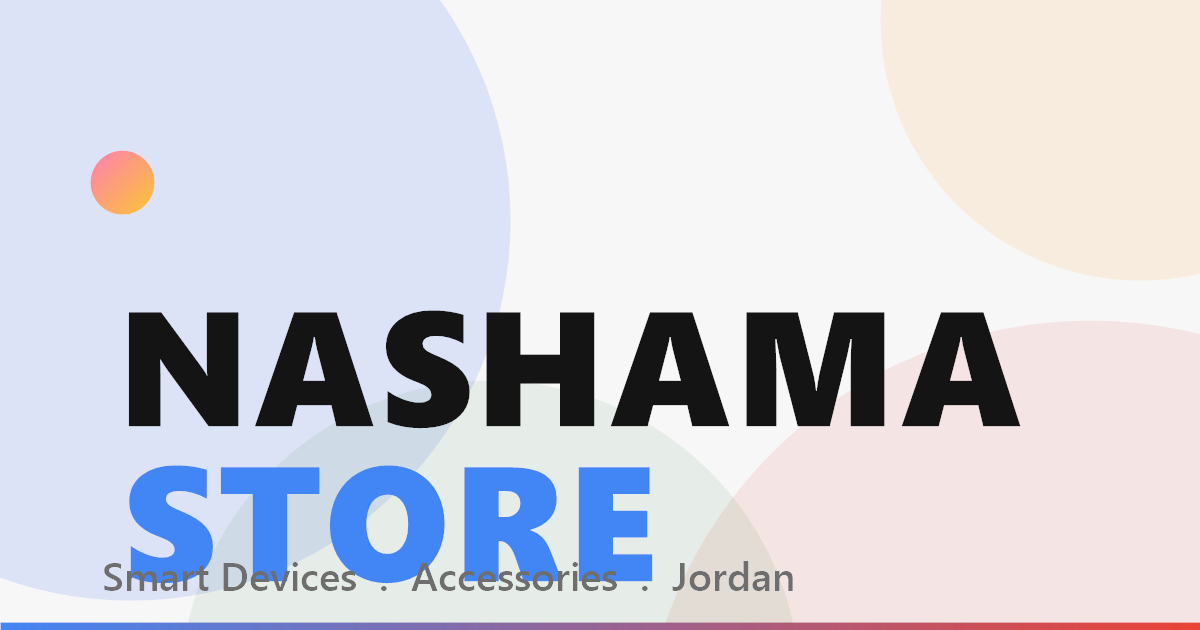
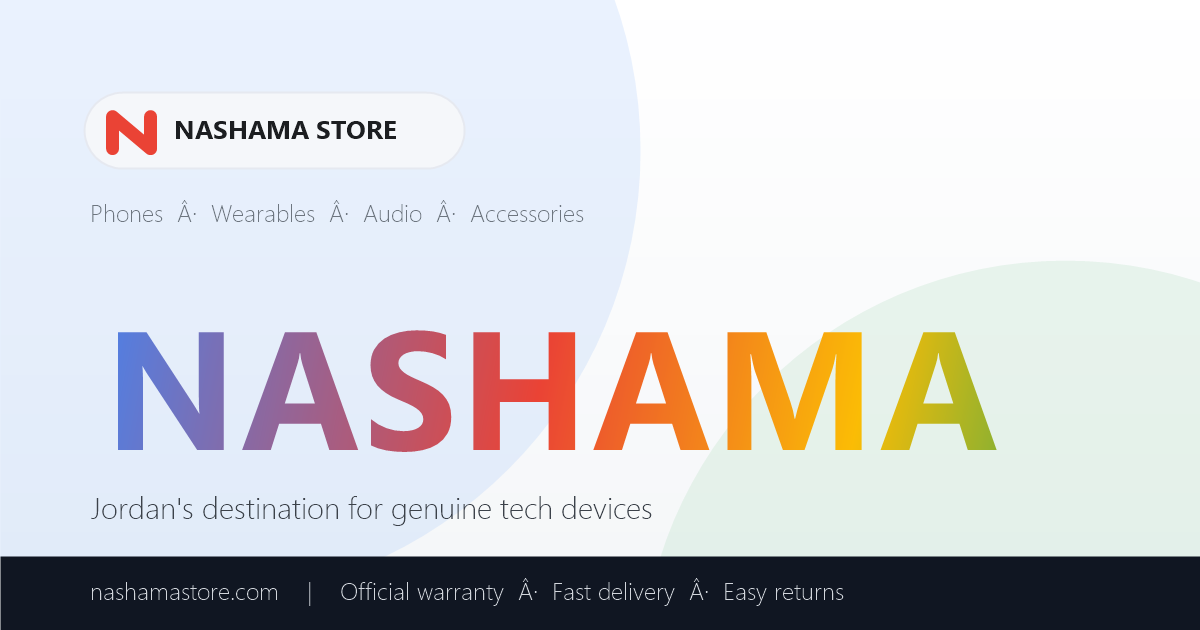
h

diff --git a/index.html b/index.html
@@ -2,9 +2,43 @@
 <html lang="en">
   <head>
     <meta charset="UTF-8" />
-    <link rel="icon" type="image/svg+xml" href="/favicon.svg" />
     <meta name="viewport" content="width=device-width, initial-scale=1.0" />
-    <title>Nashama Store</title>
+    <title>Nashama Store | Phones & Accessories in Jordan</title>
+
+    <meta name="description" content="Nashama Store — Jordan's destination for genuine smartphones, wearables, audio and accessories with official warranty and fast delivery." />
+
+    <!-- Favicons -->
+    <link rel="icon" type="image/svg+xml" href="/favicon.svg" />
+    <link rel="icon" type="image/png" sizes="32x32" href="/favicon-32x32.png" />
+    <link rel="icon" type="image/png" sizes="16x16" href="/favicon-16x16.png" />
+    <link rel="apple-touch-icon" sizes="180x180" href="/apple-touch-icon.png" />
+    <link rel="canonical" href="https://nashamastore.com/" />
+
+    <!-- PWA -->
+    <link rel="manifest" href="/site.webmanifest" />
+    <meta name="theme-color" content="#0E1116" />
+    <meta name="mobile-web-app-capable" content="yes" />
+    <meta name="apple-mobile-web-app-capable" content="yes" />
+    <meta name="apple-mobile-web-app-status-bar-style" content="black-translucent" />
+    <meta name="apple-mobile-web-app-title" content="Nashama Store" />
+
+    <!-- Open Graph -->
+    <meta property="og:type" content="website" />
+    <meta property="og:site_name" content="Nashama Store" />
+    <meta property="og:title" content="Nashama Store | Phones & Accessories in Jordan" />
+    <meta property="og:description" content="Jordan's destination for genuine smartphones, wearables, audio and accessories with official warranty and fast delivery." />
+    <meta property="og:url" content="https://nashamastore.com/" />
+    <meta property="og:image" content="https://nashamastore.com/og-image.png" />
+    <meta property="og:image:type" content="image/png" />
+    <meta property="og:image:width" content="1200" />
+    <meta property="og:image:height" content="630" />
+    <meta property="og:locale" content="ar_JO" />
+
+    <!-- Twitter -->
+    <meta name="twitter:card" content="summary_large_image" />
+    <meta name="twitter:title" content="Nashama Store | Phones & Accessories in Jordan" />
+    <meta name="twitter:description" content="Jordan's destination for genuine smartphones, wearables, audio and accessories with official warranty and fast delivery." />
+    <meta name="twitter:image" content="https://nashamastore.com/og-image.png" />
   </head>
   <body>
     <div id="root"></div>
